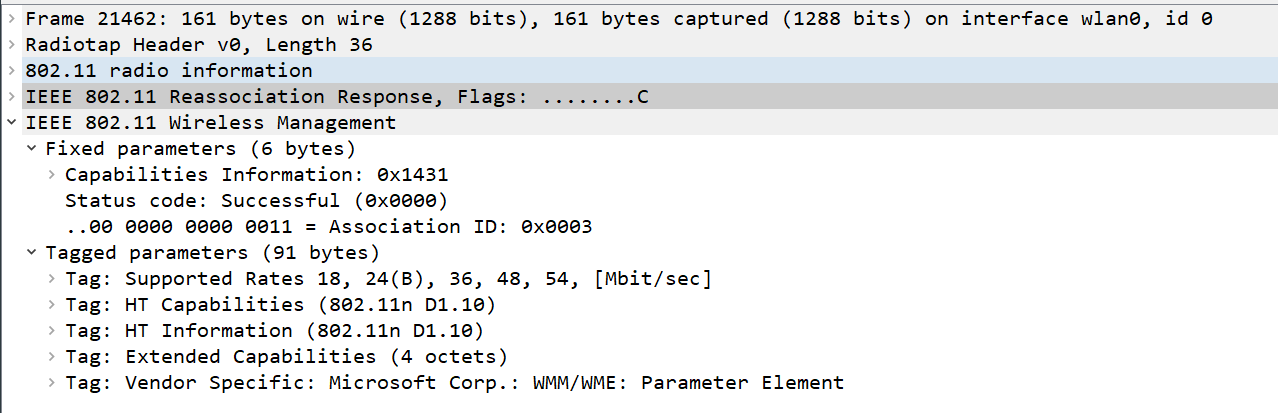
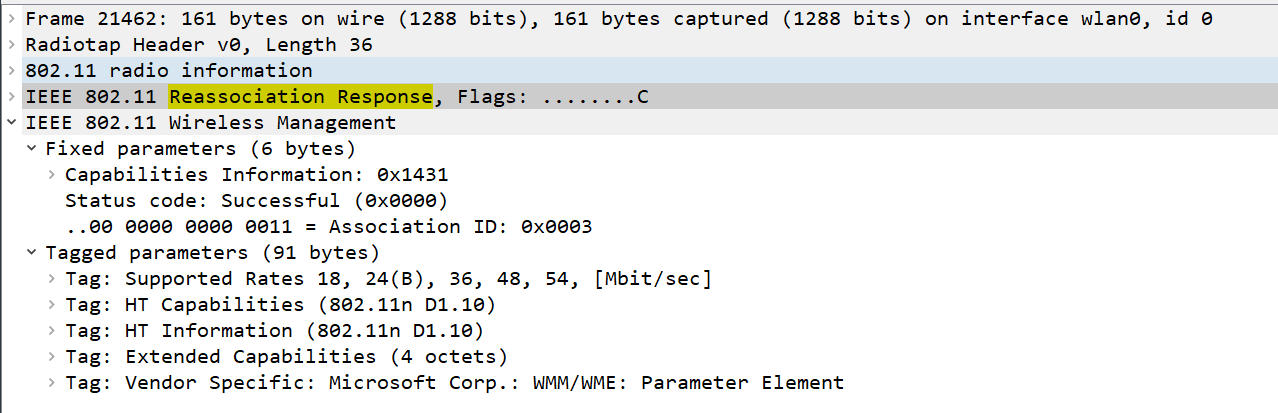
Highlighted images, put them in context and added some explanations

Changed region(s): [[0.1221, 0.2034, 0.3357, 0.2615]]

diff --git a/README.md b/README.md
@@ -51,19 +51,73 @@ Dans cette première partie, vous allez analyser [une connexion WPA Entreprise](
 
 - Comparer [la capture](files/auth.pcap) au processus d’authentification donné en théorie (n’oubliez pas les captures d'écran pour illustrer vos comparaisons !). En particulier, identifier les étapes suivantes :
 	- Requête et réponse d’authentification système ouvert
+
+	![open system request](assets/img/01_opensystem_req.png)
+
+	![open system response](assets/img/02_opensystem_rsp.png)
+
  	- Requête et réponse d’association (ou reassociation)
+
+	![reassociation request](assets/img/03_reassoc_req.png)
+
+	![reassociation response](assets/img/04_reassoc_rsp.png)
+ 
 	- Négociation de la méthode d’authentification entreprise
+
+	![authentification negative request](assets/img/07_auth_neg_req.png)
+
+	![authentification negative response](assets/img/08_auth_neg_rak.png)
+
+	![authentification positive request](assets/img/09_auth_pos_req.png)
+
 	- Phase d’initiation. Arrivez-vous à voir l’identité du client ?
+
+	![identity request](assets/img/05_identity_req.png)
+
+	![identity response](assets/img/06_identity_rsp.png)
+
+	L'identité du client est `einet\joel.gonin`
+
 	- Phase hello :
 		- Version TLS
 		- Suites cryptographiques et méthodes de compression proposées par le client et acceptées par l’AP
 		- Nonces
 		- Session ID
+
+		Ce message contient toutes ces informations, la partie nonce est représentée par "random"
+
+		![client hello](assets/img/10_client_hello.png)
+
 	- Phase de transmission de certificats
 	 	- Echanges des certificats
+
+		On a pu observer l'envoi du certificat du serveur, une image se trouve plus bas, en réponse à la question liée. Voici l'envoi d'un des fragments du certificat, avec quelques informations lisibles :
+
+		![part of the certificate data](assets/img/11_server_certificate.png)
+
 		- Change cipher spec
+
+		![change cipher spec](assets/img/14_server_change_cipher_spec.png)
+
 	- Authentification interne et transmission de la clé WPA (échange chiffré, vu comme « Application data »)
+
+	Echange chiffré entre STA et Radius pour l'authentification.
+
+	![application data - internal auth and WPA key exchange](assets/img/15_internal_auth_wpa_transmission.png)
+
 	- 4-way handshake
+
+	Premier message :
+
+	![first message](assets/img/17_4way_1.png)
+
+	Dernier message :
+
+	![last message](assets/img/19_4way_4.png)
+
+	Les 4 messages :
+
+	![all 4 messages](assets/img/20_4way_global.png)
 
 ### Répondez aux questions suivantes :
  
@@ -86,6 +140,10 @@ Dans cette première partie, vous allez analyser [une connexion WPA Entreprise](
 > **_Réponse:_**
 >
 >   Oui, le server envoie une chaîne de certificats (qui sont fragmentés en 5 messages EAP-TLS).
+>
+>	![fragments certificate](assets/img/12_server_certificate_frag.png)
+>
+>	![reconstructed certificate](assets/img/13_server_certificate_reconstructed.png)
 >
 >   De façon générale, un serveur devra toujours envoyer un certificat au client, bien qu'il puisse être invalide si 
 >   le client le permet
